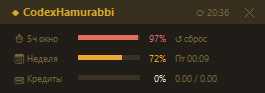
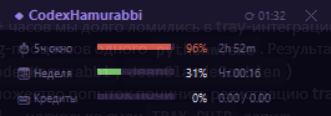
Refresh screenshots; add tray-mode screenshot
Old shots predated v1.2.0 (no tray mode at all, narrower bars, no
'CodexHamurabbi' branded full header). Captured fresh shots for full /
compact / dock plus the tray icon, and added the tray PNG to the
README hero strip so the four modes are visible at a glance.

diff --git a/README.md b/README.md
@@ -5,7 +5,7 @@
 
 Compact always-on-top overlay that shows your real-time **Codex usage stats** — 5-hour window, weekly limit, and extra credits — directly on your desktop.
 
-<img src="docs/screenshot-full.png" alt="Full mode" width="265"> <img src="docs/screenshot-compact.png" alt="Compact mode" width="165"> <img src="docs/screenshot-dock.png" alt="Dock mode" width="130">
+<img src="docs/screenshot-full.png" alt="Full mode" width="331"> <img src="docs/screenshot-compact.png" alt="Compact mode" width="206"> <img src="docs/screenshot-dock.png" alt="Dock mode" width="163"> <img src="docs/screenshot-tray.png" alt="Tray icon" width="52">
 
 ---
 
